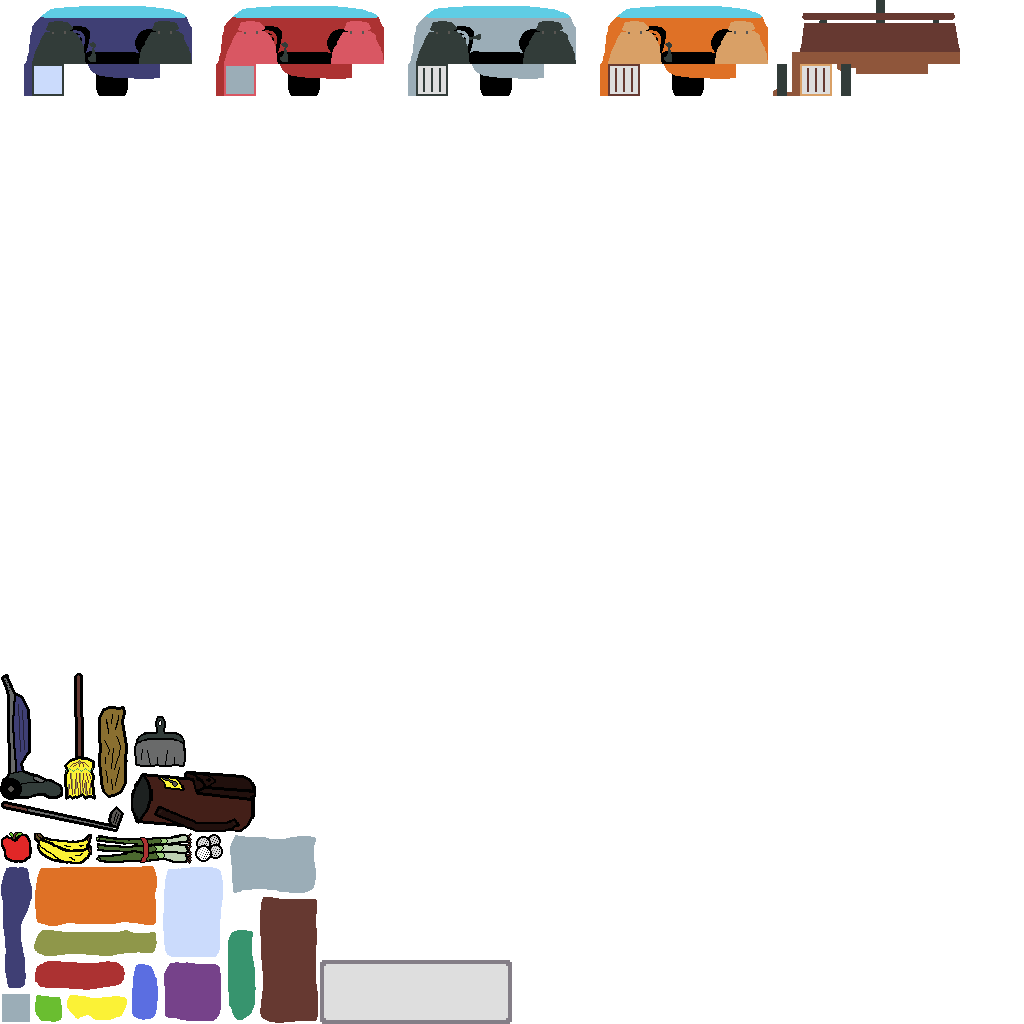
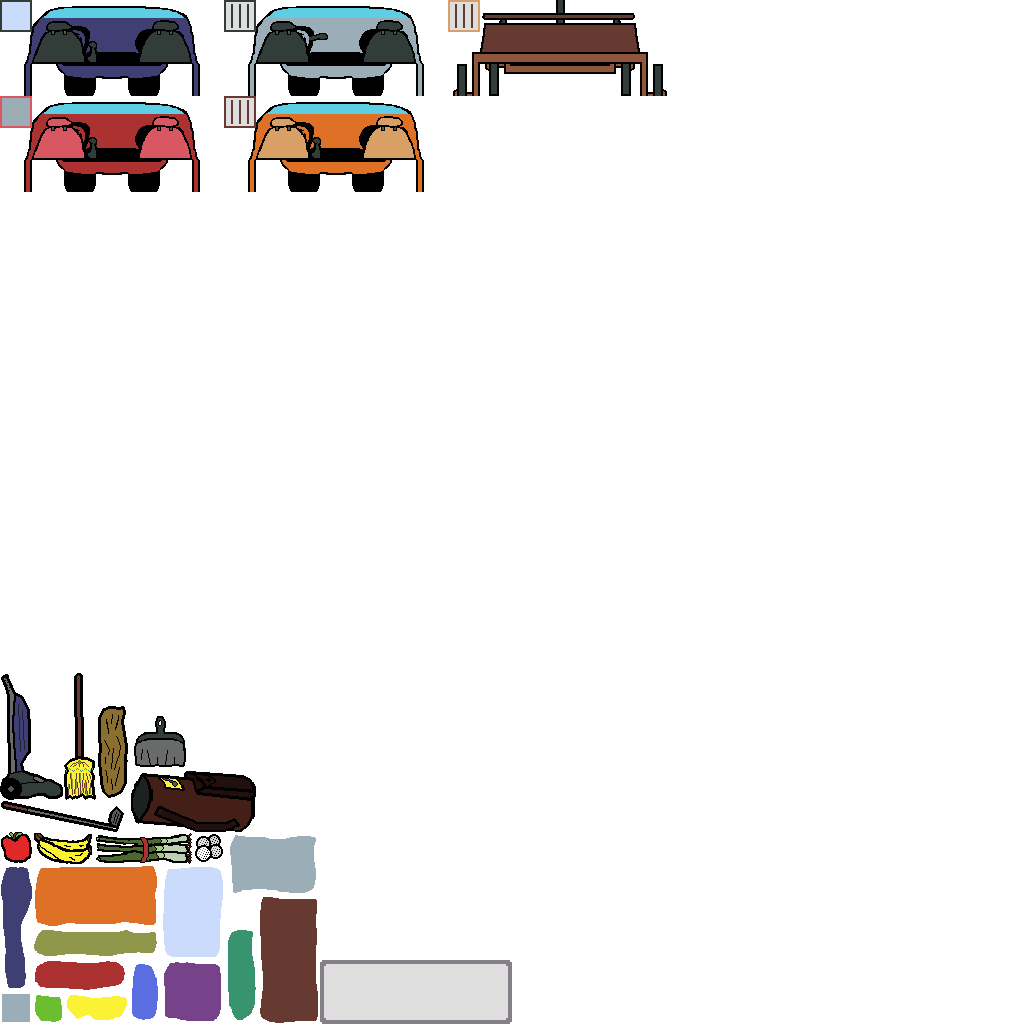
trying to add some car parts

Changed region(s): [[0.0, 0.0, 0.75, 0.1875], [0.75, 0.0, 0.9375, 0.0938]]

diff --git a/internal/systems/truck.go b/internal/systems/truck.go
@@ -1,6 +1,7 @@
 package systems
 
 import (
+	"fmt"
 	"github.com/faiface/pixel"
 	"image/color"
 	"ludum-dare-54/internal/constants"
@@ -18,6 +19,60 @@ func CreateTruck() {
 	if data.CurrentTruck == nil {
 		data.AvailableTrucks[string(data.PickedTruckKey)].CopyTruck()
 	}
+	// build the truck
+	for yt := -1; yt < data.CurrentTruck.Depth+1; yt++ {
+		for xt := -1; xt < data.CurrentTruck.Width+1; xt++ {
+			str := ""
+			if yt == -1 {
+				if xt == -1 {
+					str = "fender_rl"
+				} else if xt == 0 {
+					str = "tire_l"
+				} else if xt == data.CurrentTruck.Width-1 {
+					str = "tire_r"
+				} else if xt == data.CurrentTruck.Width {
+					str = "fender_rr"
+				} else {
+					str = "bottom"
+				}
+			} else if yt == data.CurrentTruck.Depth {
+				if xt == -1 {
+					str = "fender_fl"
+				} else if xt == 0 {
+					str = "driver"
+				} else if xt == 1 {
+					str = ""
+				} else if xt == data.CurrentTruck.Width-2 {
+					str = "passenger"
+				} else if xt == data.CurrentTruck.Width-1 {
+					str = ""
+				} else if xt == data.CurrentTruck.Width {
+					str = "fender_fr"
+				} else {
+					str = "center"
+				}
+			}
+			if str != "" {
+				offset := pixel.V(float64(xt)*world.TileSize, float64(yt)*world.TileSize)
+				if yt == data.CurrentTruck.Depth {
+					if xt == 0 || xt == data.CurrentTruck.Width-2 {
+						offset.X += world.TileSize * 0.5
+						offset.Y += world.TileSize * 0.5
+					} else if xt > 0 && xt < data.CurrentTruck.Width-2 {
+						offset.Y += world.TileSize * 0.5
+					}
+				}
+				spr := img.NewOffsetSprite(fmt.Sprintf("%s_%s", data.CurrentTruck.SpriteKey, str), constants.TestBatch, offset)
+				data.CurrentTruck.TileMap = append(data.CurrentTruck.TileMap, spr)
+			}
+		}
+	}
+	data.CurrentTruck.TileObject = object.New()
+	data.CurrentTruck.TileObject.Layer = -1
+	data.CurrentTruck.TileEntity = myecs.Manager.NewEntity()
+	data.CurrentTruck.TileEntity.AddComponent(myecs.Object, data.CurrentTruck.TileObject).
+		AddComponent(myecs.Drawable, data.CurrentTruck.TileMap)
+	// build the tiles
 	for yt := 0; yt < data.CurrentTruck.Depth; yt++ {
 		for xt := 0; xt < data.CurrentTruck.Width; xt++ {
 			obj := object.New().WithID("slot")

diff --git a/internal/data/truck.go b/internal/data/truck.go
@@ -1,6 +1,11 @@
 package data
 
-import "ludum-dare-54/internal/constants"
+import (
+	"github.com/bytearena/ecs"
+	"ludum-dare-54/internal/constants"
+	"ludum-dare-54/pkg/img"
+	"ludum-dare-54/pkg/object"
+)
 
 var (
 	CurrentTruck   *Truck
@@ -17,7 +22,11 @@ type Truck struct {
 	FilledSpace   int
 	PercentFilled int
 	TruckLabel    string
+	SpriteKey     string
 	CurrHeight    int
+	TileMap       []*img.Sprite
+	TileObject    *object.Object
+	TileEntity    *ecs.Entity
 }
 
 func NewTruck(w, d, h int) {
@@ -64,26 +73,31 @@ var (
 			Depth:      4,
 			Height:     3,
 			TruckLabel: "SMART CAR",
+			SpriteKey:  "smart",
 		}, constants.Minivan: {
 			Width:      5,
 			Depth:      5,
 			Height:     4,
 			TruckLabel: "MINIVAN",
+			SpriteKey:  "mini",
 		}, constants.CargoVan: {
 			Width:      5,
 			Depth:      6,
 			Height:     5,
 			TruckLabel: "CARGO VAN",
+			SpriteKey:  "cargo",
 		}, constants.SemiTruck: {
 			Width:      5,
 			Depth:      7,
 			Height:     6,
 			TruckLabel: "BOX TRUCK",
+			SpriteKey:  "box",
 		}, constants.Wagon: {
 			Width:      4,
 			Depth:      7,
 			Height:     5,
 			TruckLabel: "CONASTOGA",
+			SpriteKey:  "wagon",
 		},
 	}
 )

diff --git a/internal/states/packing.go b/internal/states/packing.go
@@ -139,6 +139,7 @@ func (s *packingState) Update(win *pixelgl.Window) {
 
 func (s *packingState) Draw(win *pixelgl.Window) {
 	data.GameView.Canvas.Clear(colornames.Green)
+	systems.DrawSystem(win, -1)
 	systems.DrawSystem(win, 0)
 	for i := 1; i <= data.CurrentTruck.Height; i++ {
 		systems.DrawSystem(win, i)
